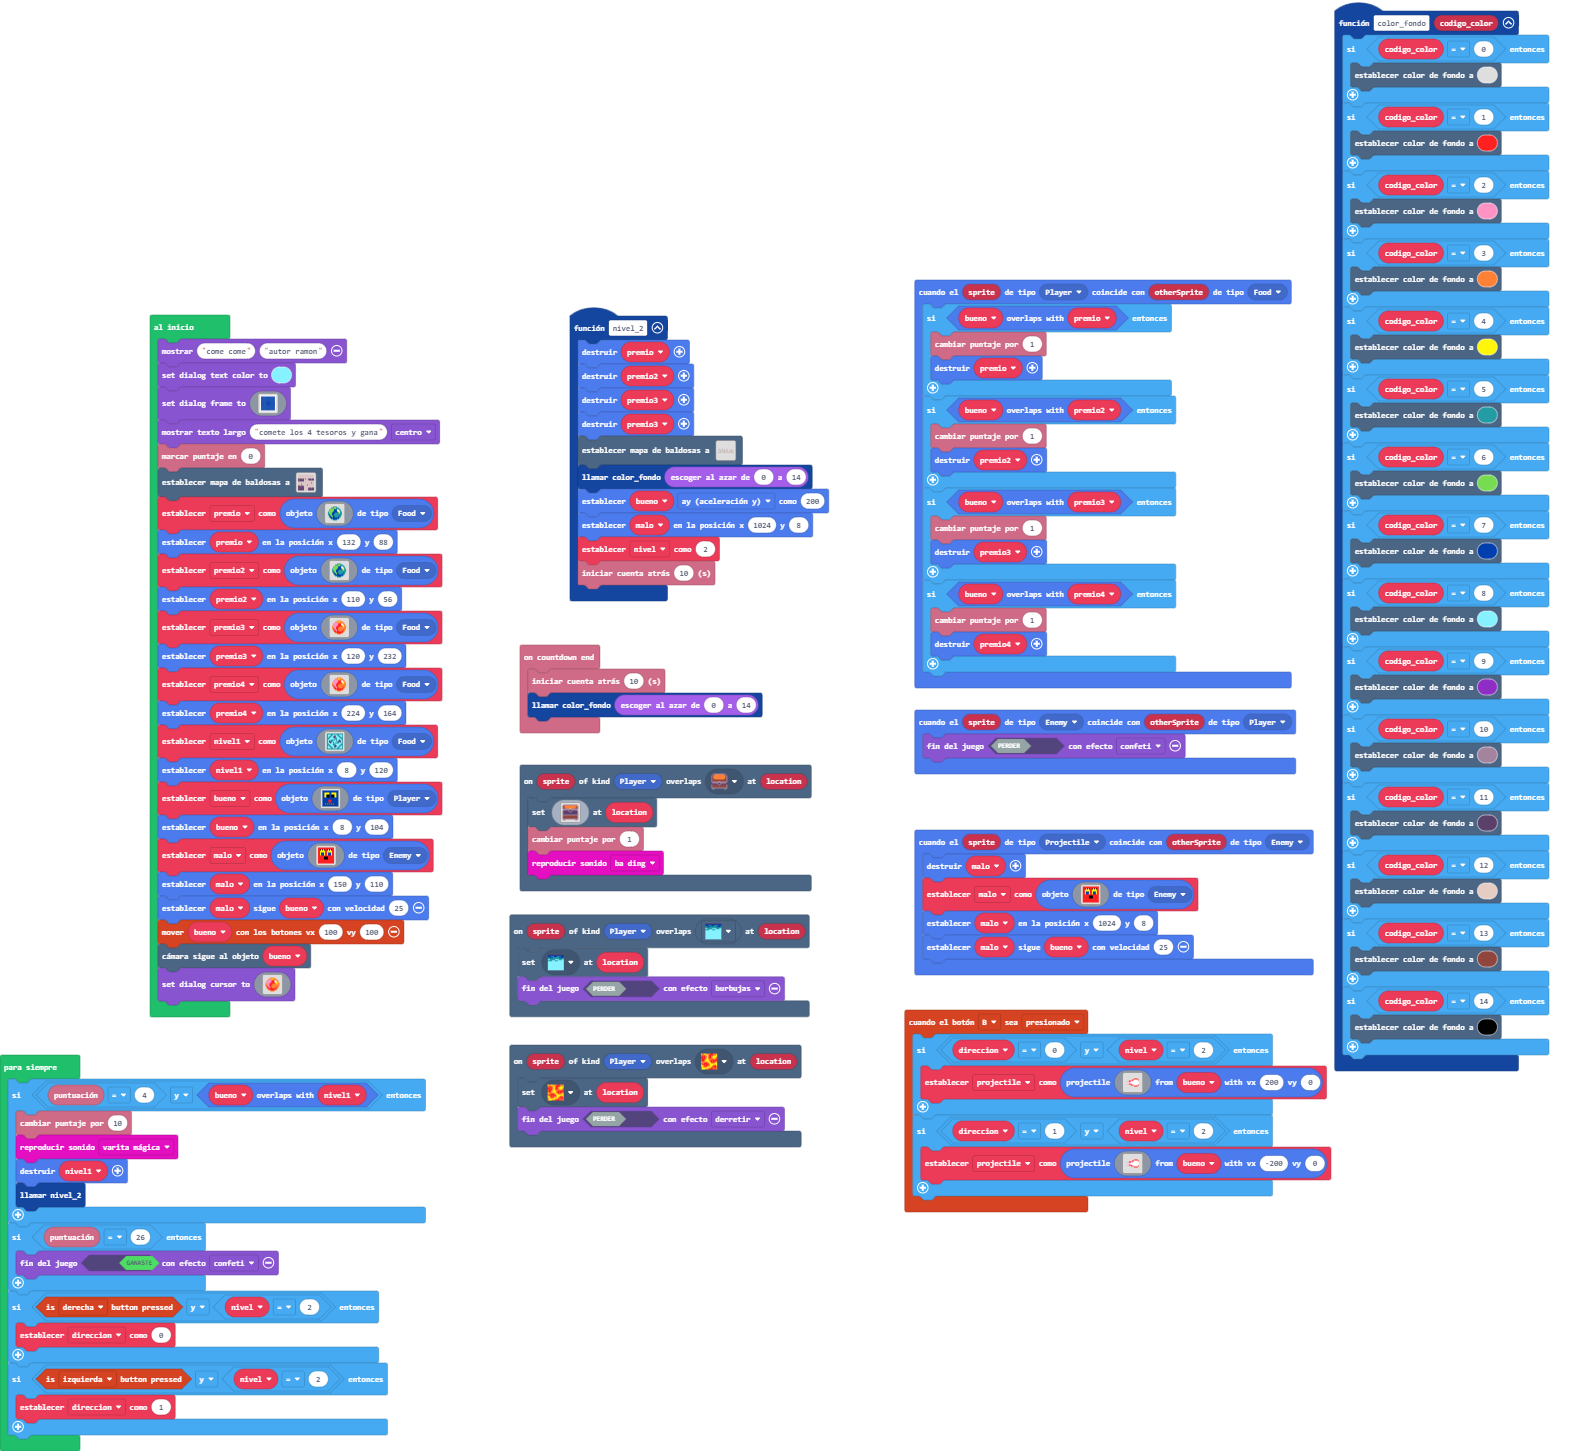
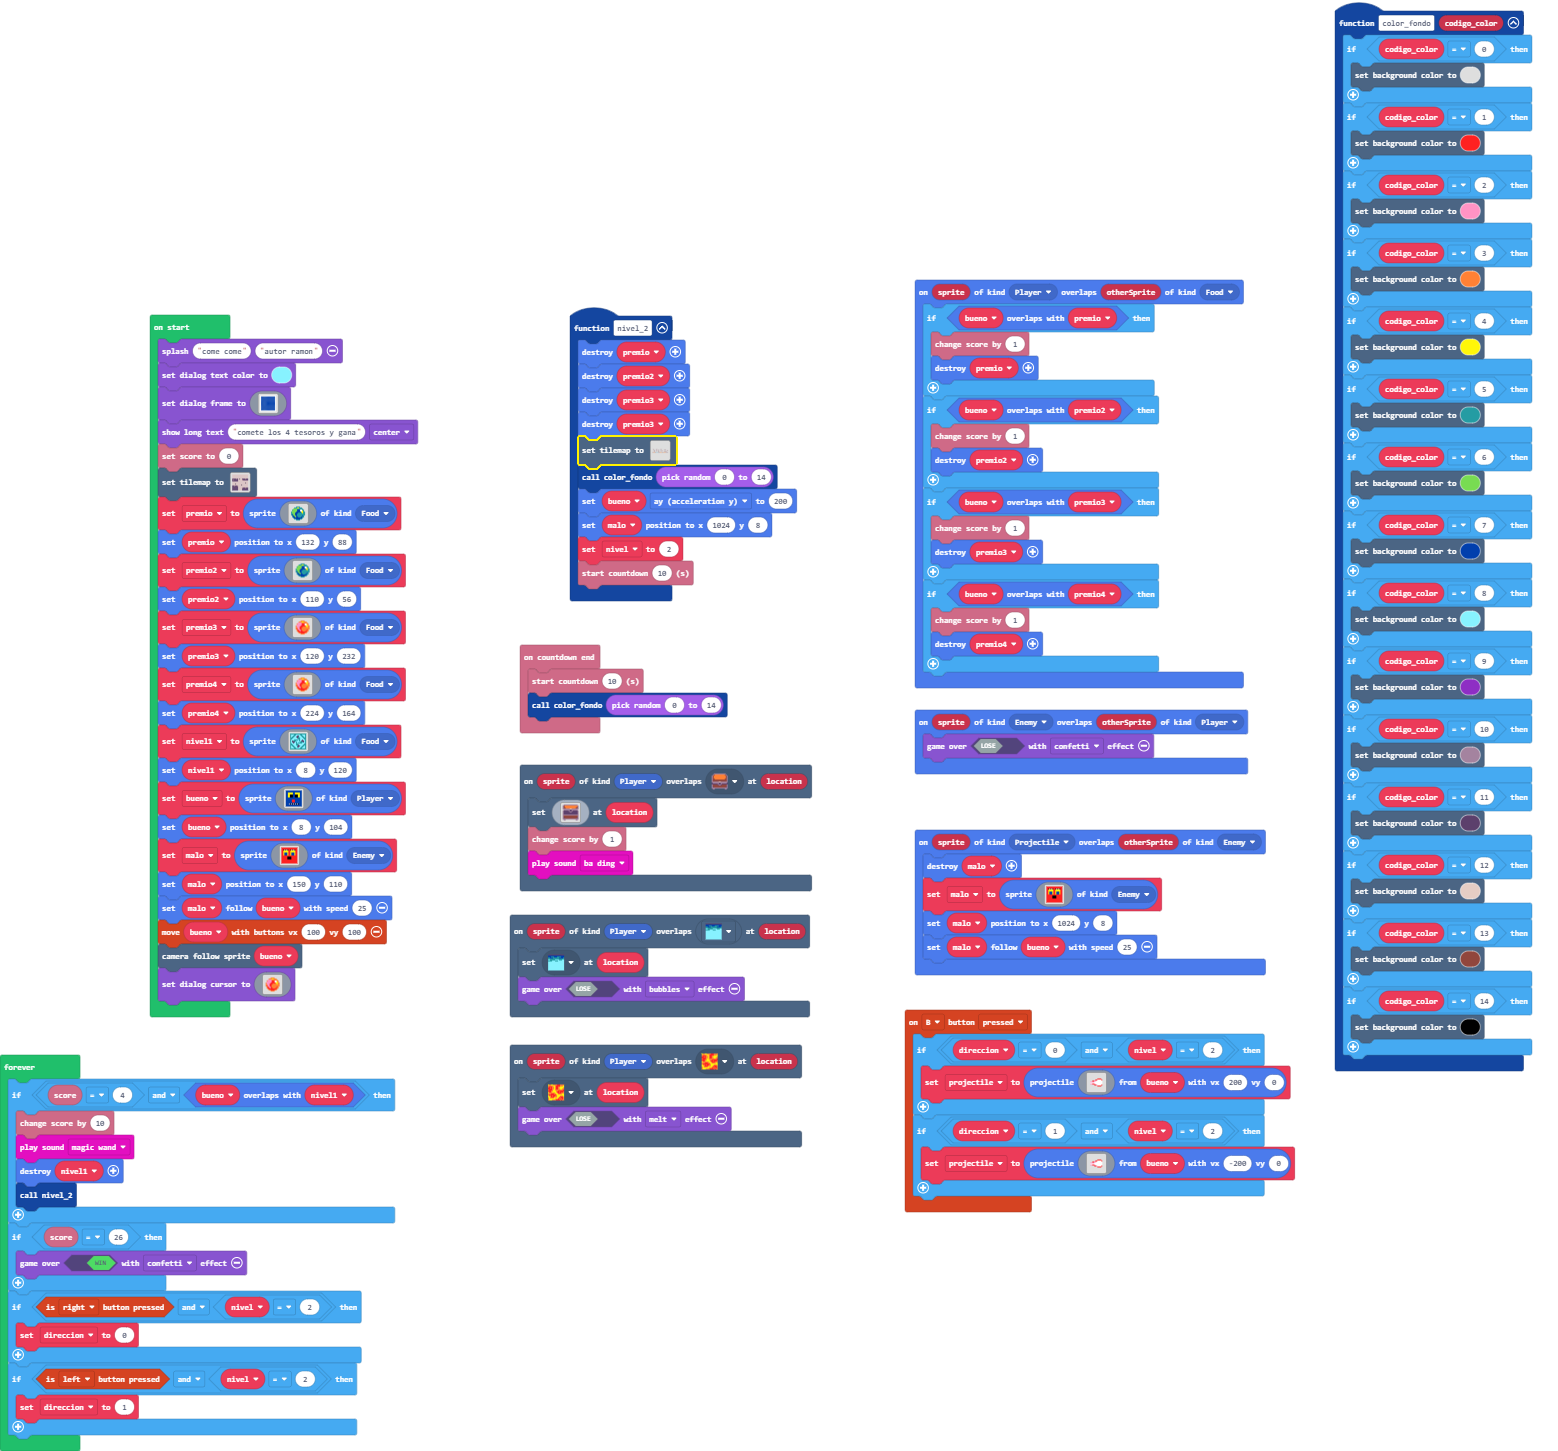
terminado nivel 2

diff --git a/main.ts b/main.ts
@@ -28,22 +28,6 @@ scene.onOverlapTile(SpriteKind.Player, assets.tile`myTile1`, function (sprite, l
     info.changeScoreBy(1)
     music.baDing.play()
 })
-scene.onOverlapTile(SpriteKind.Player, assets.tile`myTile`, function (sprite, location) {
-    tiles.setTileAt(location, assets.tile`myTile`)
-    game.over(false, effects.melt)
-})
-function nivel_2 () {
-    premio.destroy()
-    premio2.destroy()
-    premio3.destroy()
-    premio3.destroy()
-    tiles.setTilemap(tilemap`nivel2`)
-    color_fondo(randint(0, 14))
-    bueno.ay = 200
-    malo.setPosition(1024, 8)
-    nivel = 2
-    info.startCountdown(10)
-}
 controller.B.onEvent(ControllerButtonEvent.Pressed, function () {
     if (direccion == 0 && nivel == 2) {
         projectile = sprites.createProjectileFromSprite(img`
@@ -86,6 +70,22 @@ controller.B.onEvent(ControllerButtonEvent.Pressed, function () {
             `, bueno, -200, 0)
     }
 })
+scene.onOverlapTile(SpriteKind.Player, assets.tile`myTile`, function (sprite, location) {
+    tiles.setTileAt(location, assets.tile`myTile`)
+    game.over(false, effects.melt)
+})
+function nivel_2 () {
+    premio.destroy()
+    premio2.destroy()
+    premio3.destroy()
+    premio3.destroy()
+    tiles.setTilemap(tilemap`nivel2`)
+    color_fondo(randint(0, 14))
+    bueno.ay = 200
+    malo.setPosition(1024, 8)
+    nivel = 2
+    info.startCountdown(10)
+}
 info.onCountdownEnd(function () {
     info.startCountdown(10)
     color_fondo(randint(0, 14))
@@ -182,8 +182,8 @@ sprites.onOverlap(SpriteKind.Projectile, SpriteKind.Enemy, function (sprite, oth
     malo.follow(bueno, 25)
 })
 let projectile: Sprite = null
-let direccion = 0
 let nivel = 0
+let direccion = 0
 let malo: Sprite = null
 let bueno: Sprite = null
 let premio4: Sprite = null

diff --git a/tilemap.g.ts b/tilemap.g.ts
@@ -1,4 +1,4 @@
-// Código generado automáticamente. No editar.
+// Auto-generated code. Do not edit.
 namespace myTiles {
     //% fixedInstance jres blockIdentity=images._tile
     export const transparency16 = image.ofBuffer(hex``);
@@ -128,4 +128,4 @@ namespace myTiles {
     })
 
 }
-// Código generado automáticamente. No editar.
+// Auto-generated code. Do not edit.

diff --git a/images.g.ts b/images.g.ts
@@ -1,4 +1,4 @@
-// Código generado automáticamente. No editar.
+// Auto-generated code. Do not edit.
 namespace myImages {
 
     helpers._registerFactory("image", function(name: string) {
@@ -34,4 +34,4 @@ namespace myImages {
     })
 
 }
-// Código generado automáticamente. No editar.
+// Auto-generated code. Do not edit.
